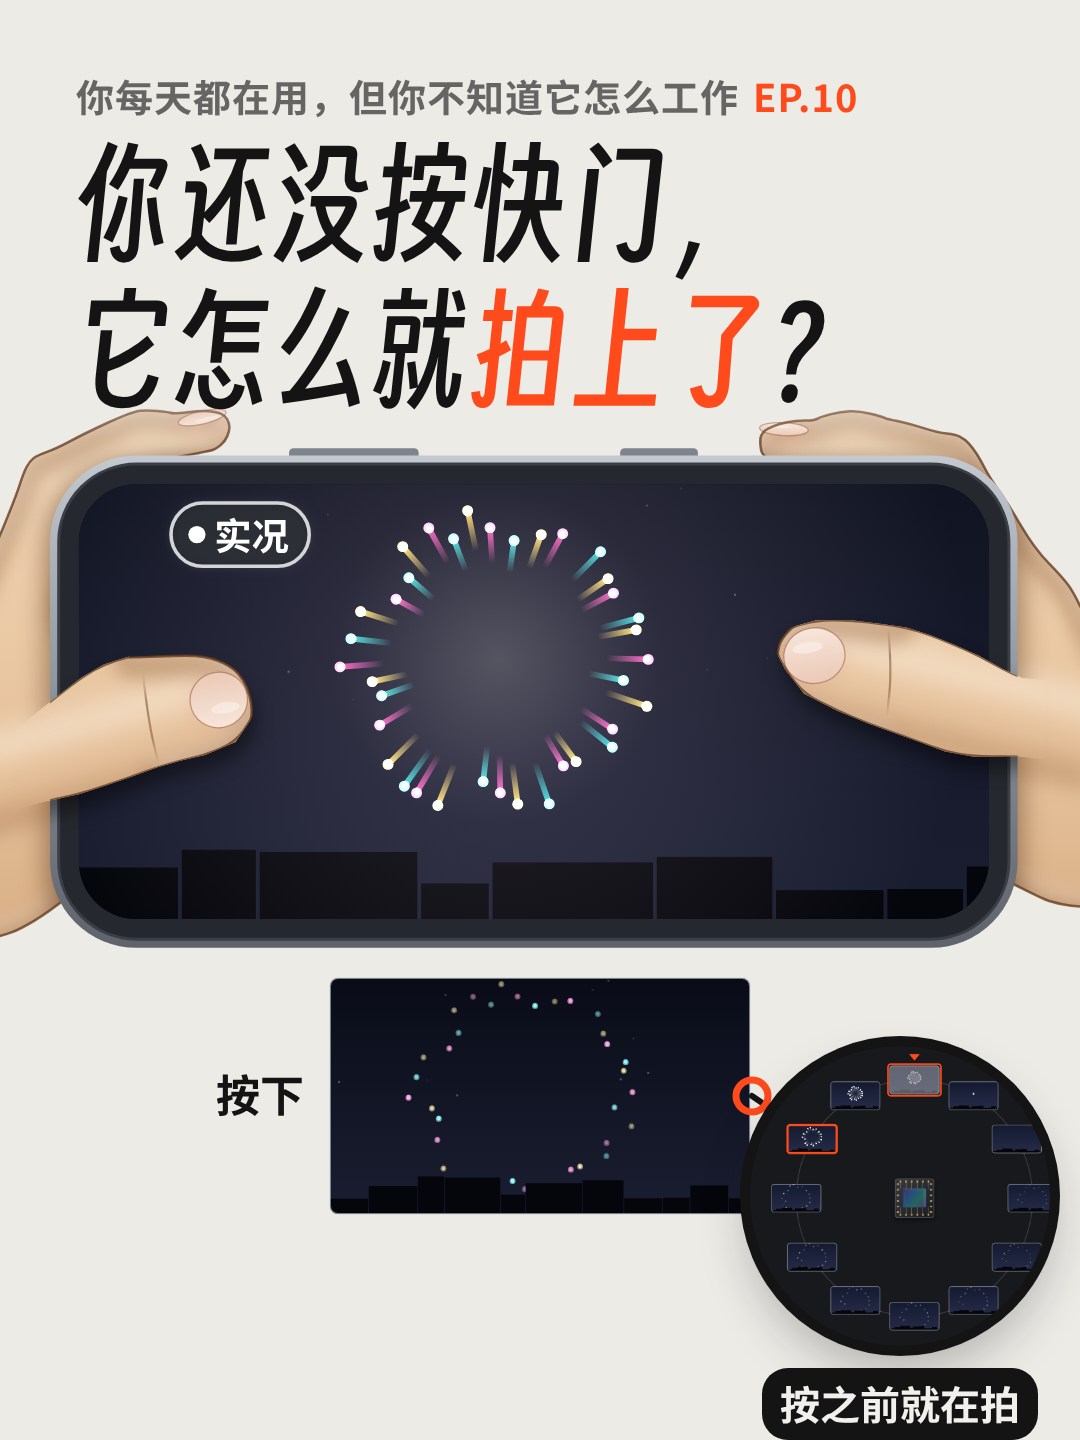
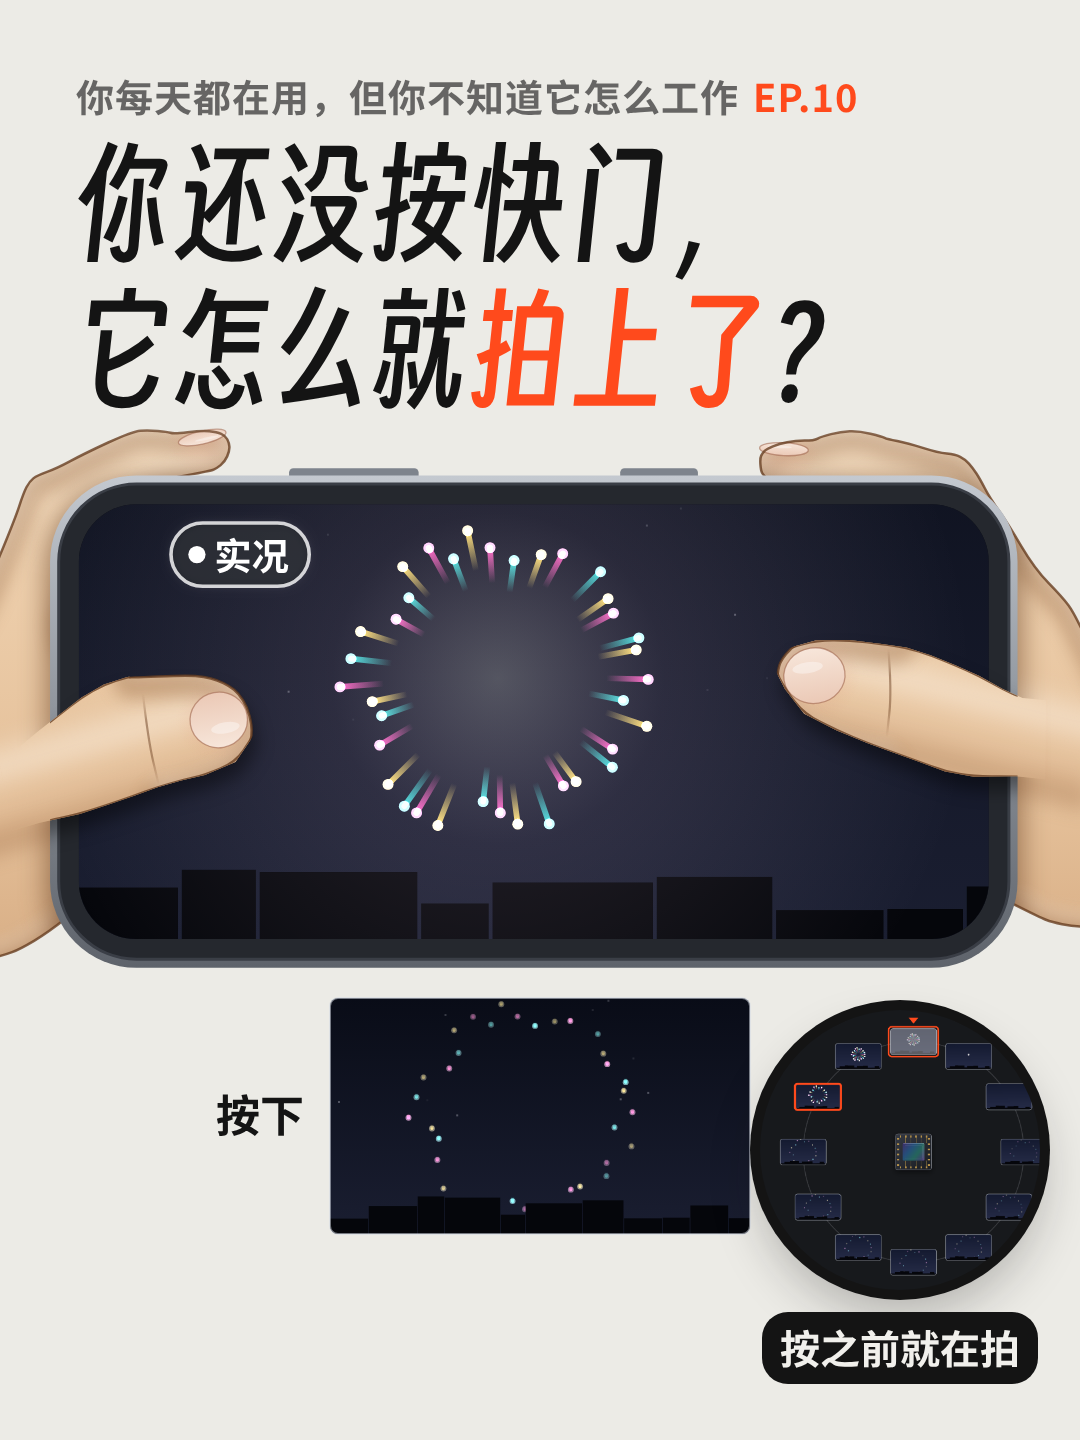
为什么 EP.10 终版：按节点 ③ 审核改封面（标签离底、去引线、标题离指尖）和正文（④ 限定 1.5 秒、保留设置、长曝光用词）；FACTS #15
Claude-Session: https://claude.ai/code/session_01WiaSR4AtmtkATZs3caUzCc

diff --git a/templates/weishenme/covers/ep10-xiaohongshu.html b/templates/weishenme/covers/ep10-xiaohongshu.html
@@ -3,26 +3,25 @@
   @font-face { font-family: "NotoSC"; src: url("file:///home/user/kepu-studio/templates/guanghulian/engine/lib/fonts/NotoSansSC-700.woff"); }
   html, body { margin: 0; background: #ECEBE6; }
   #cv { position: relative; width: 1080px; height: 1440px; overflow: hidden; background: #ECEBE6; }
-  .hero { position: absolute; left: 0; top: -220px; width: 1080px; height: 1920px; background: url("art/ep10-hero.png") no-repeat; }
+  .hero { position: absolute; left: 0; top: -200px; width: 1080px; height: 1920px; background: url("art/ep10-hero.png") no-repeat; }
   .wash { position: absolute; left: 0; top: 0; width: 100%; height: 440px; background: linear-gradient(#ECEBE6 0%, #ECEBE6 70%, rgba(236,235,230,0) 100%); }
   .ser { position: absolute; left: 76px; top: 68px; font: 400 38px "NotoSC"; color: rgba(20,20,20,0.62); letter-spacing: 1px; }
   .ser i { font-style: normal; color: #FF4A1C; font-weight: 700; margin-left: 14px; }
   .t { position: absolute; left: 72px; font: 124px "Smiley"; color: #141414; white-space: nowrap; line-height: 1; }
   .t b { font-weight: normal; color: #FF4A1C; }
-  .inset { position: absolute; left: 750px; top: 1046px; width: 300px; height: 300px; border-radius: 50%;
-    background: #17191C url("art/ep10-inset.png") no-repeat; background-size: 356.04395604395603px 632.967032967033px; background-position: -28.021978021978022px -179.67032967032966px;
+  .inset { position: absolute; left: 760px; top: 1010px; width: 280px; height: 280px; border-radius: 50%;
+    background: #17191C url("art/ep10-inset.png") no-repeat; background-size: 332.3076923076923px 590.7692307692308px; background-position: -26.153846153846157px -167.6923076923077px;
     box-shadow: 0 0 0 10px #141414, 0 24px 50px rgba(20,20,20,0.28); }
   svg { position: absolute; left: 0; top: 0; }
   .inset2 { display: none; position: absolute; left: 0px; top: 0px; width: 0px; height: 0px; border-radius: 50%;
     background: #ECEBE6 url("art/.png") no-repeat; background-size: 0px 0px; background-position: 0px 0px;
     box-shadow: 0 0 0 8px #141414, 0 18px 40px rgba(20,20,20,0.25); }
   .itag2 { position: absolute; left: 0px; top: 0px; transform: translateX(-50%); font: 700 38px "NotoSC"; color: #F1F0EC; background: #141414; padding: 6px 16px 8px; border-radius: 24px; white-space: nowrap; }
-  .itag { position: absolute; left: 900px; top: 1368px; transform: translateX(-50%); font: 700 40px "NotoSC"; color: #F1F0EC; background: #141414; padding: 6px 18px 8px; border-radius: 26px; white-space: nowrap; }
+  .itag { position: absolute; left: 900px; top: 1312px; transform: translateX(-50%); font: 700 40px "NotoSC"; color: #F1F0EC; background: #141414; padding: 6px 18px 8px; border-radius: 26px; white-space: nowrap; }
   </style></head><body><div id="cv">
   <div class="hero"></div>
   <svg width="1080" height="1440">
-    <line x1="752" y1="1096" x2="770.7401208841384" y2="1108.6622438406341" stroke="#141414" stroke-width="6" stroke-linecap="round"/>
-    <circle cx="752" cy="1096" r="16" fill="none" stroke="#FF4A1C" stroke-width="7"/></svg>
+    </svg>
   <div class="wash"></div>
   <div class="ser">你每天都在用，但你不知道它怎么工作<i>EP.10</i></div>
   <div class="t" style="top:145.36px">你还没按快门，</div>

diff --git a/episodes/weishenme/10-shikuangzhaopian/FACTS.md b/episodes/weishenme/10-shikuangzhaopian/FACTS.md
@@ -13,9 +13,10 @@
 | 6 | 小字「叫法、时长各家不同」 | 三星「动态照片」（Motion photo）：快门前录几秒，可选「快门前后 / 仅快门前」；OPPO（ColorOS 15）、小米、荣耀官方用「实况照片」（审核查到 IT之家等）；小米相册分类叫「动态照片」；时长各家说法不一。「安卓多叫动态照片」不成立，v2 已删 | 〔厂〕Samsung 支持「Capture group shots with Motion photos」；〔媒〕IT之家（审核转述） | 摘要 |
 | 7 | 小提示：点编辑，换一帧当封面 | 苹果中文原文：「你可以选择不同的封面照片」「松开手指，然后轻点“设为封面照片”」；中文使用手册：「设定封面照片：……轻点“设为封面照片”」。英文：「…then tap Make Key Photo.」 | 〔厂〕https://support.apple.com/zh-cn/104966 ；中文使用手册 https://support.apple.com/zh-cn/guide/iphone/iphd8dbb3291/ios （审核读原文） | 原文 |
 | 8 | 小字：换出来的那帧可能没原图清楚 | 另选的封面照片取自视频里的一帧；论坛和读者实测多说分辨率变低（例：iPhone X 4032×3024 → 3662×2744），也有一条反例；没有苹果官方说法 → 用「可能」 | 〔论〕Apple 社区 https://discussions.apple.com/thread/250580900 ；MacRumors 论坛 | 摘要 |
-| 9 | （**v3 片中已删，只放发布正文**）长曝光把烟花拖成光丝 | 原文：「Tap the Live Photo button near the top of the screen. Choose Loop, Bounce, or Long Exposure.」中文使用手册：「长曝光：通过模糊动作来模拟类似数码单反相机的长曝光效果」；英文：「Simulates a DSLR-like long exposure effect by blurring motion」。苹果没写算法；「把实况里的多帧混在一起」只有 TechCrunch、Pocket-lint 2017 年的报道（摘要）。道理上只能用实况里的视频帧（静态照片里没有运动）→ 片中「叠在一起」加注「示意」+「以 iPhone 为例」 | 〔厂〕Apple 支持（同 #1）；中文使用手册（同 #7）；〔媒〕TechCrunch、Pocket-lint 2017 | 效果描述原文；算法示意 |
+| 9 | （**v3 片中已删，只放发布正文**）长曝光把烟花拖成光丝 | 原文：「Tap the Live Photo button near the top of the screen. Choose Loop, Bounce, or Long Exposure.」中文页原文（11-24 主 agent 读）：「选取“循环播放”、“来回播放”或“长曝光”。」中文使用手册：「长曝光：通过模糊动作来模拟类似数码单反相机的长曝光效果」；英文：「Simulates a DSLR-like long exposure effect by blurring motion」。苹果没写算法；「把实况里的多帧混在一起」只有 TechCrunch、Pocket-lint 2017 年的报道（摘要）。道理上只能用实况里的视频帧（静态照片里没有运动）→ 片中「叠在一起」加注「示意」+「以 iPhone 为例」 | 〔厂〕Apple 支持（同 #1）；中文使用手册（同 #7）；〔媒〕TechCrunch、Pocket-lint 2017 | 效果描述原文；算法示意 |
 | 10 | 小字「一秒很多张」 | Google：取景至少每秒 15 帧（暗处曝光最长 66 ms 时）；常见取景约每秒 30 帧，各机型、模式不同 → 不写具体数 | 〔研〕#4 原文 | 原文（Pixel） |
 | 11 | （发布正文）夜景模式下实况不工作 | 原文：「When your iPhone is in Night mode, Live Photos and the flash aren't active. You can turn these features on manually. Keep in mind that turning on Live Photos or the flash deactivates Night mode.」 | 〔厂〕Apple 支持「Use Night mode on your iPhone」https://support.apple.com/en-us/102519 | 原文 |
 | 12 | 「烟花快散了才按」，照片里还有炸开那一下 | 烟花弹的延时引信约 3–6 秒，在快到最高点时炸开（Fire Engineering，摘要）。〔估〕假设在最高点附近炸开、忽略空气阻力：接近最高点时速度趋近 0，炸开前最后 t 秒上升约 ½gt²，t = 1.5 s 约 11 m、t = 0.5 s 约 1 m，比炸开的范围（几十米）小得多，所以「炸完才按」拍不到升空（v1 的字幕错了）。画法：这一朵画成炸开后约 1 秒就开始散的那种。开头（草稿 v3.2 起）拇指在炸开后约 1.25 秒按（这时已经快散完了）：1.5 秒里是炸开前约 0.25 秒（那一点几乎不动）+ 炸开 + 散开；结尾那一次仍是炸开后约 1 秒按。亮星燃烧时间没找到可靠来源（〔待〕），片中只说「这一朵」，不说烟花都这样 | 〔媒〕Fire Engineering「Fireworks and their hazards」https://www.fireengineering.com/firefighting/fireworks-and-their-hazards/ ；〔估〕 | 摘要 + 估算 |
 | 13 | （草稿 v2 起）放大镜里的摄像头剖面：几片镜片（最后一片画成「鸥翼」形）、红外截止滤光片、最下面的感光芯片（CMOS）用金线连到底板；小字「结构示意」 | 手机摄像头用多片塑料非球面镜片（片数随机型，常见 5–7 片；越靠近芯片的镜片非球面越强，常呈波浪 / 鸥翼形，用来逐个视场校正像差，因为塑料可选的折射率少）；镜片下有红外截止滤光片（IRCF），再下面是图像传感器；传感器常用金线键合到底板（也有倒装 flip-chip 的）；对焦时音圈马达推镜筒前后动。片中镜片数、形状都是示意 | 〔综〕Steinich, Blahnik, "Optical design of camera optics for mobile phones", Adv. Opt. Technol. 2012;1:51–58, doi:10.1515/aot-2012-0002（蔡司，https://lenspire.zeiss.com/photo/app/uploads/2022/02/technical-article-optical-design-of-camera-optics-for-mobile-phones.pdf ）；Sasian, Mobile phone lenses（亚利桑那大学讲义，https://wp.optics.arizona.edu/jsasian/wp-content/uploads/sites/33/2018/11/Mobile-phone-lenses-JS.pdf ）；〔厂〕摄像头模组专利（IRCF、金线键合、倒装：US 9147711 等）；〔待〕读原文摘「5–7 片」与鸥翼形的原句 | 摘要 |
 | 14 | （草稿 v2 起）从正面透过机身看，摄像头模组在手机右上角，镜头在外侧、闪光灯在内侧 | iPhone 背面看模组在左上角；从正面「透视」时左右镜像，所以在右上角、镜头靠外侧（审核 11-24 指出 v2 初版画反了，已改）。各品牌位置不同，片中以常见的左上角（背面）为例 | 〔待〕苹果产品图 / 技术规格页 | 示意 |
+| 15 | （发布正文）关掉实况，下次打开相机会自动打开；想一直关着要在「设置 › 相机 › 保留设置」里打开「实况照片」 | 中文原文：「“相机” App 会自动重新打开“实况照片”。要永久关闭“实况照片”：前往“设置”。轻点“相机”，然后轻点“保留设置”。确保“实况照片”旁边的开关已打开。」英文：「The Camera app turns Live Photo on again automatically. To keep Live Photo off permanently: … tap Preserve Settings. Make sure that the switch next to Live Photo is turned on.」 | 〔厂〕https://support.apple.com/zh-cn/104966 、https://support.apple.com/en-us/104966 （11-24 主 agent 读原文；审核凭记忆提出，主 agent 核实） | 原文 |

diff --git a/episodes/weishenme/10-shikuangzhaopian/publish.md b/episodes/weishenme/10-shikuangzhaopian/publish.md
@@ -42,17 +42,18 @@
 很多人以为：实况照片是你一按，它才开始录。其实不是。
 
 ① 相机一打开，它就已经在拍了。取景框里一直在动的画面，就是它刚拍下的，一秒很多张。
-② 它不会一张张全存着，不然早塞满了。它只留最近一小段，像一个转盘：新的一张进来，就把最旧的那张盖掉（这叫环形缓冲区）。
+② 它不会一张张全存着，不然早塞满了。它只留最近一小段，像一个转盘：新的一张进来，就把最旧的那张盖掉（这叫环形缓冲区）。没按快门的，转一圈就没了，不会进相册。
 ③ 你一按快门，它把转盘里“按之前”的那一小段留下来，再接着拍“按之后”的一小段；按下那一刻，还单独拍一张清楚的照片。iPhone 是前后各 1.5 秒。
-④ 清楚的那张 + 前后一小段视频，拼在一起就是实况照片。所以按晚了也不怕，炸开那一下就在“按之前”那一段里。
+④ 清楚的那张 + 前后一小段视频，拼在一起就是实况照片（Live Photo）。所以晚了一点也来得及（iPhone 上是 1.5 秒以内）：这一朵炸开那一下，就在“按之前”那一段里。
 
 按快门，不是让它开始拍，是让它别扔掉。
 
 几个顺手能用的（以 iPhone 为例）：
 · 没拍到最亮那一下、合照里有人闭眼，先别删：打开照片点“编辑”，在实况里选一帧，点“设为封面照片”。换出来的那一帧可能没原图清楚。
-· 还能给实况照片加效果：循环播放、来回播放、长曝光。拍烟花、流水、车灯，选“长曝光”能拖成光丝。
+· 还能给实况照片加效果：循环播放、来回播放、长曝光。选“长曝光”，烟花、车灯会拖成光丝，流水变得像丝一样。
 · 拍夜景注意：夜景模式开着时，实况照片不工作；想要实况得手动打开，夜景模式就会关掉。
-· 安卓也有，各家叫法不一样：有的叫“实况照片”，有的叫“动态照片”，入口和时长也不同。实况照片多存了一段视频，比普通照片占地方，用不上可以关掉。
+· 实况照片多存了一段视频，比普通照片占地方。用不上可以在相机里点“实况”关掉；不过下次打开相机它会自动打开，想一直关着，要去“设置 › 相机 › 保留设置”，打开“实况照片”旁边的开关。
+· 安卓也有，各家叫法不一样：有的叫“实况照片”，有的叫“动态照片”，入口和时长也不同。
 
 这是「你每天都在用，但你不知道它怎么工作」第 10 集。你还想知道哪个东西是怎么工作的？评论区告诉我。
 
@@ -74,8 +75,8 @@
 ```
 
 ## 备注
-- 搜索关键词：实况照片、动态照片、Live Photo、iPhone 拍照技巧、手机摄影（`script.md`「搜索词」）。五个都在两个平台的话题里；「实况照片」在两个标题、抖音描述和正文里；「动态照片」「iPhone」在抖音描述和正文里。话题写成 #LivePhoto（话题里不能有空格）。
+- 搜索关键词：实况照片、动态照片、Live Photo、iPhone 拍照技巧、手机摄影（`script.md`「搜索词」）。五个都在两个平台的话题里；「实况照片」在两个标题、抖音描述和正文里；「动态照片」「iPhone」「Live Photo」在正文里。话题写成 #LivePhoto（话题里不能有空格）。
 - 不点名品牌推荐、不比哪家好，安卓只说叫法不同；不往偷拍上讲。
 - 两个平台都用全屏版：抖音底部的作者名 / 描述比小红书高，发布前在抖音上传预览里看一眼底部：开场「按下」那张照片（全屏版里约 y 1620–1855）和 23–29 秒下面那排画格有没有被盖住。
-- 依据：前后各 1.5 秒、换封面（FACTS #1、#7）；相机一打开就在拍、取景框里就是刚拍的、转盘（#2、#4，谷歌原文；苹果没公开，片中加注「示意」）；清楚的一张 + 前后视频（#3）；一秒很多张（#10）；叫法各家不同（#6）；换出来的那帧可能没原图清楚（#8，只有论坛实测，所以用「可能」）；循环播放 / 来回播放 / 长曝光（#9）；夜景模式关掉实况（#11）；「多存了一段视频，比普通照片占地方」由 #3 的组成推出（照片 + 视频文件），没有写具体大小。
+- 依据：前后各 1.5 秒、换封面（FACTS #1、#7）；相机一打开就在拍、取景框里就是刚拍的、转盘（#2、#4，谷歌原文；苹果没公开，片中加注「示意」）；清楚的一张 + 前后视频（#3）；一秒很多张（#10）；叫法各家不同（#6）；换出来的那帧可能没原图清楚（#8，只有论坛实测，所以用「可能」）；循环播放 / 来回播放 / 长曝光（#9，中文原名已核）；夜景模式关掉实况（#11）；关掉实况会自动重开、要在「保留设置」里留住（#15）；晚了一点也来得及只限「按之前」那段（#1，iPhone 1.5 秒）；「多存了一段视频，比普通照片占地方」由 #3 的组成推出（照片 + 视频文件），没有写具体大小。
 - 烟花时间线（按下时炸开后约 1.25 秒）是示意，依据 FACTS #12 的估算，不是实测；正文没有写具体秒数，只写「按晚了」。

diff --git a/episodes/weishenme/10-shikuangzhaopian/notes.md b/episodes/weishenme/10-shikuangzhaopian/notes.md
@@ -116,4 +116,6 @@
   - `out/ep10-shikuangzhaopian-xhs.mp4`：小红书全屏版 1080×2340（顶部 24 行模糊拉伸 420 px 补在上方，音频原样复制）；
   - `cover-xiaohongshu.png`：1080×1440，问题用 C（E10-2b）「你还没按快门，/ 它怎么就[拍上了]？」；主图是 2.05 秒的开场对比（手机里实况炸开 + 下面按下那张），小圆是 17.75 秒的转盘，标「按之前就在拍」，引线从按下那张连过去（`templates/weishenme/covers` 的 shots.mjs / make.mjs 加了 ep10）；
   - `publish.md`：抖音描述 + 小红书标题 / 备选 / 正文 / 话题 + 置顶评论；正文写了换封面、循环播放 / 来回播放 / 长曝光、夜景模式、安卓叫法、占空间。
+- 节点 ③：监督——落实，建议 AI 说明别替用户断言参考图来源、封面小圆和标签内收（已改：「内容由 AI 生成」改为请用户确认）；观众（Codex）看封面和文案：会点、会收藏，三条建议（用备选标题、删「很多人以为……」、置顶换本集那条）交用户定；审核（最终审核）**不通过**：B1 封面标签贴底 0 px，B2 正文④「按晚了也不怕」说过头。
+- 改：封面主图下移 20 px（标题和指尖拉开）、小圆 r 140 移到 (900, 1150)、标签底边离画面底 57 px、去掉 23 px 的锚点引线（读成 ⊘）；正文④改成「晚了一点也来得及（iPhone 上是 1.5 秒以内）：这一朵炸开那一下…」、写一次「实况照片（Live Photo）」、②补「没按快门的，转一圈就没了，不会进相册」、长曝光改「烟花、车灯拖成光丝，流水变得像丝一样」、「占地方 / 关掉 / 保留设置」单独一条（读了苹果中文、英文原页，FACTS 加 #15、#9 补中文原名）。
 
